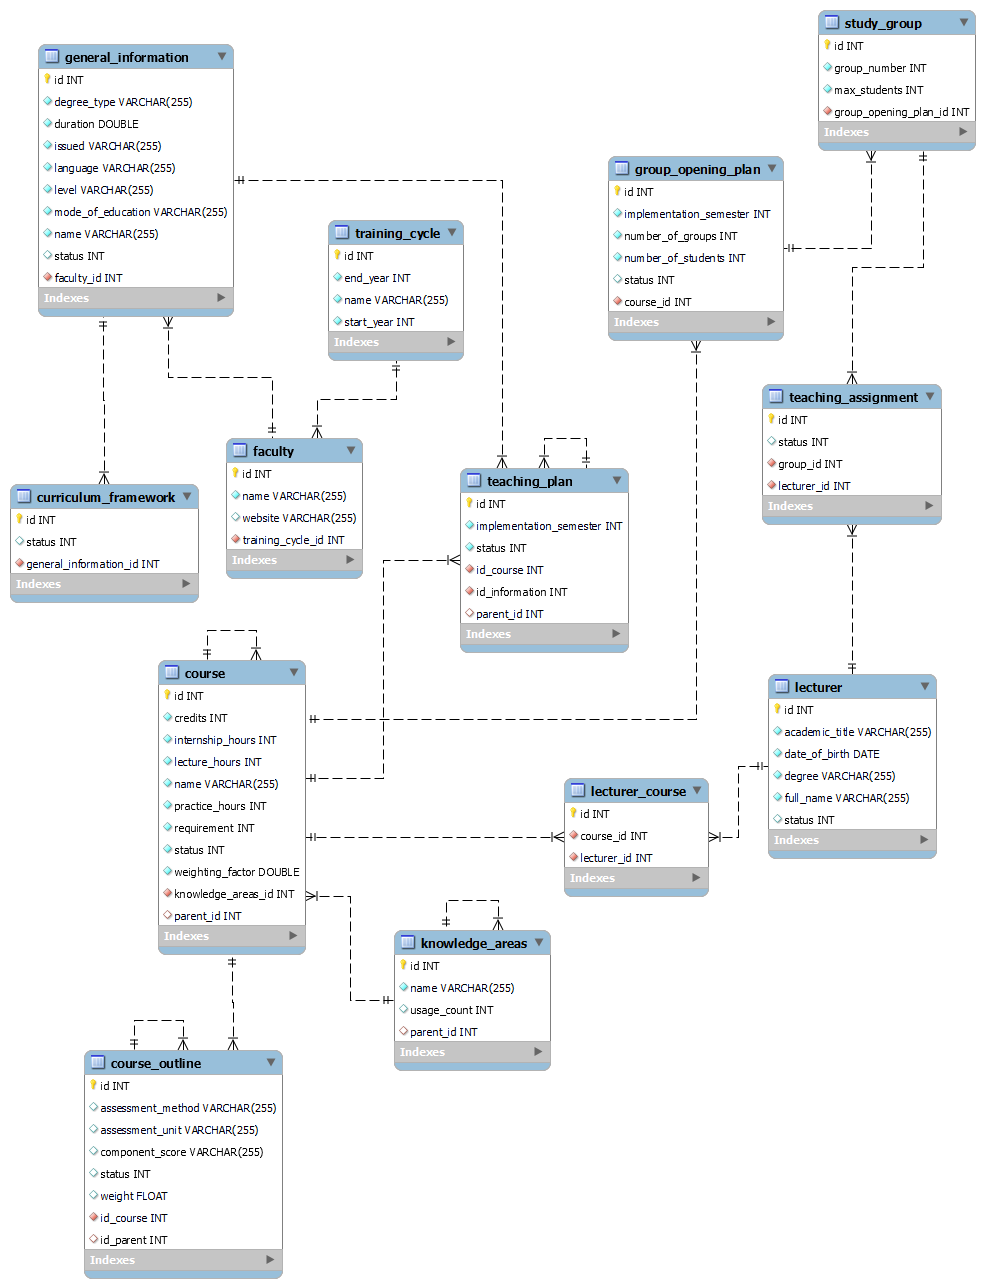
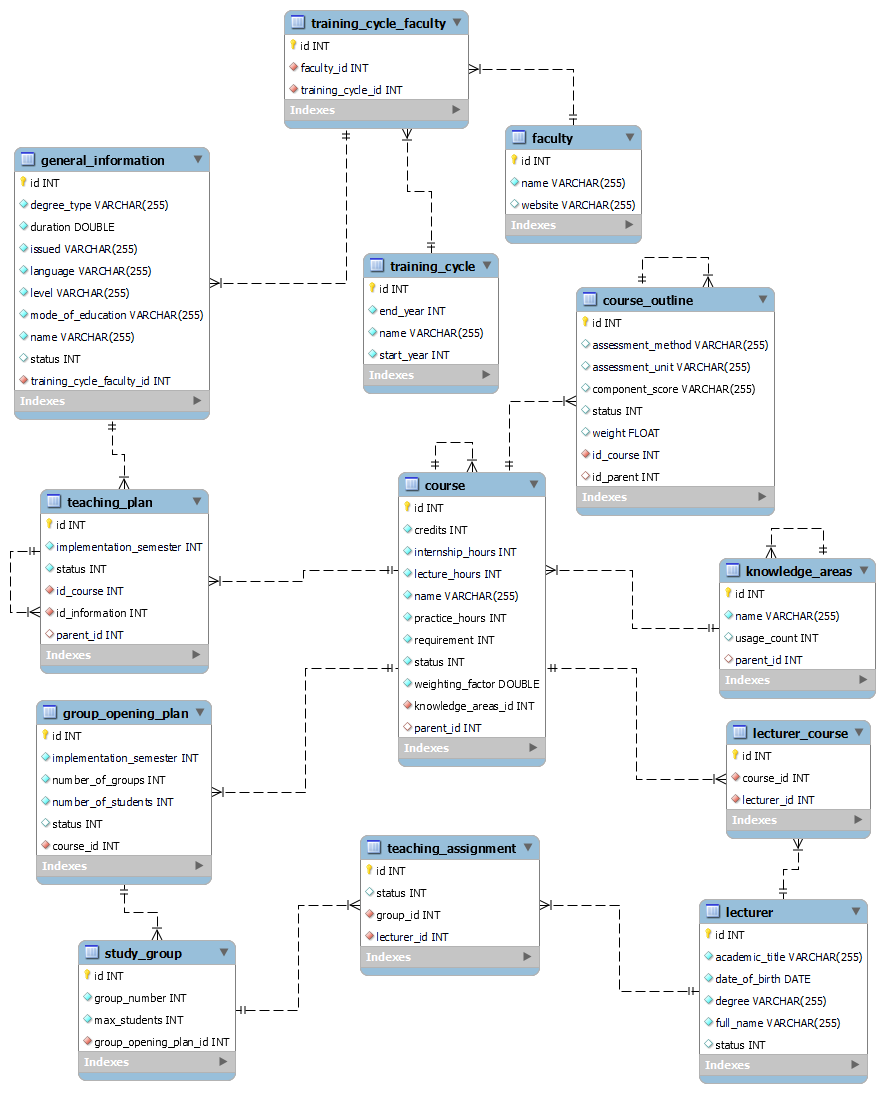
update relation: training, faculty, information and delete curriculum

diff --git a/CTDT/src/main/java/com/project/CTDT/entity/Faculty.java b/CTDT/src/main/java/com/project/CTDT/entity/Faculty.java
@@ -1,19 +1,18 @@
 package com.project.CTDT.entity;
 
-import com.fasterxml.jackson.annotation.JsonBackReference;
+import java.util.Set;
+
+import com.fasterxml.jackson.annotation.JsonIgnoreProperties;
 import com.fasterxml.jackson.annotation.JsonManagedReference;
 
 import jakarta.persistence.CascadeType;
 import jakarta.persistence.Column;
 import jakarta.persistence.Entity;
 import jakarta.persistence.FetchType;
-import jakarta.persistence.ForeignKey;
 import jakarta.persistence.GeneratedValue;
 import jakarta.persistence.GenerationType;
 import jakarta.persistence.Id;
-import jakarta.persistence.JoinColumn;
-import jakarta.persistence.ManyToOne;
-import jakarta.persistence.OneToOne;
+import jakarta.persistence.OneToMany;
 import jakarta.persistence.Table;
 import lombok.Getter;
 import lombok.Setter;
@@ -22,6 +21,7 @@ import lombok.Setter;
 @Setter
 @Entity
 @Table(name = "faculty")
+@JsonIgnoreProperties({ "hibernateLazyInitializer", "handler" })
 public class Faculty {
 	@Id
 	@GeneratedValue(strategy = GenerationType.IDENTITY)
@@ -33,14 +33,15 @@ public class Faculty {
 	@Column(name = "website", nullable = true, length = 255)
 	private String website;
 
-	@ManyToOne(fetch = FetchType.EAGER)
-	@JoinColumn(name = "TrainingCycle_Id", nullable = false, foreignKey = @ForeignKey(name = "fk_Faculty_TrainingCycle"))
-	@JsonBackReference(value = "trainingCycle-faculty") // Đúng khi Faculty là "nhiều" và TrainingCycle là "một"
-	private TrainingCycle trainingCycle;
+	// Mối quan hệ 1-N với TrainingCycleFaculty
+	@OneToMany(mappedBy = "faculty", cascade = CascadeType.ALL, fetch = FetchType.LAZY, orphanRemoval = true)
+	@JsonManagedReference(value = "trainingCycleFaculty-faculty")
+	private Set<TrainingCycleFaculty> trainingCycleFacultyList;
+	// cascade = CascadeType.ALL : Khi bạn xóa một phần tử LecturerCourse khỏi danh
+	// sách lecturerCourses, thì Hibernate sẽ tự động xóa record đó khỏi database.
 
-	// Mối quan hệ 1-1 với GeneralInformation
-	@OneToOne(fetch = FetchType.LAZY, mappedBy = "faculty", cascade = CascadeType.ALL)
-	@JsonManagedReference(value = "faculty-generalInformation") // Đúng khi Faculty là "một" và GeneralInformation là
-																// "nhiều"
-	private GeneralInformation generalInformation;
+//	@ManyToOne(fetch = FetchType.EAGER)
+//	@JoinColumn(name = "TrainingCycle_Id", nullable = false, foreignKey = @ForeignKey(name = "fk_Faculty_TrainingCycle"))
+//	@JsonBackReference(value = "trainingCycle-faculty") // Đúng khi Faculty là "nhiều" và TrainingCycle là "một"
+//	private TrainingCycle trainingCycle;
 }

diff --git a/CTDT/src/main/java/com/project/CTDT/entity/TrainingCycle.java b/CTDT/src/main/java/com/project/CTDT/entity/TrainingCycle.java
@@ -1,8 +1,14 @@
 package com.project.CTDT.entity;
 
+import java.util.ArrayList;
+import java.util.HashSet;
+import java.util.List;
 import java.util.Set;
 
+import com.fasterxml.jackson.annotation.JsonIgnore;
+import com.fasterxml.jackson.annotation.JsonIgnoreProperties;
 import com.fasterxml.jackson.annotation.JsonManagedReference;
+import com.fasterxml.jackson.annotation.JsonProperty;
 
 import jakarta.persistence.CascadeType;
 import jakarta.persistence.Column;
@@ -14,14 +20,15 @@ import jakarta.persistence.Id;
 import jakarta.persistence.OneToMany;
 import jakarta.persistence.Table;
 import lombok.Getter;
-import lombok.Setter;
 import lombok.NoArgsConstructor;
+import lombok.Setter;
 
 @Getter
 @Setter
 @NoArgsConstructor
 @Entity
 @Table(name = "TrainingCycle")
+@JsonIgnoreProperties({ "hibernateLazyInitializer", "handler" })
 public class TrainingCycle {
 	@Id
 	@GeneratedValue(strategy = GenerationType.IDENTITY)
@@ -37,7 +44,26 @@ public class TrainingCycle {
 	@Column(name = "endYear", nullable = false)
 	private Integer endYear;
 
-	@OneToMany(fetch = FetchType.EAGER, mappedBy = "trainingCycle", cascade = CascadeType.ALL)
-	@JsonManagedReference(value = "trainingCycle-faculty") // Đúng khi TrainingCycle là "một" và Faculty là "nhiều"
-	private Set<Faculty> faculties;
+	// Mối quan hệ 1-N với TrainingCycleFaculty
+	@OneToMany(mappedBy = "trainingCycle", cascade = CascadeType.ALL, fetch = FetchType.EAGER, orphanRemoval = true)
+	@JsonManagedReference(value = "trainingCycle-trainingCycleFaculty")
+	@JsonIgnore
+	private Set<TrainingCycleFaculty> trainingCycleFacultyList = new HashSet<>();;
+
+	// Getter để trả về faculty
+	@JsonProperty("faculties")
+	public List<Faculty> getFaculties() {
+		if (trainingCycleFacultyList == null)
+			return new ArrayList<>();
+		List<Faculty> list = new ArrayList<>();
+		for (TrainingCycleFaculty t : trainingCycleFacultyList) {
+			list.add(t.getFaculty());
+		}
+		return list;
+	}
+
+//		@OneToMany(fetch = FetchType.EAGER, mappedBy = "trainingCycle", cascade = CascadeType.ALL)
+//		@JsonManagedReference(value = "trainingCycle-faculty") // Đúng khi TrainingCycle là "một" và Faculty là "nhiều"
+//		private Set<Faculty> faculties;
+
 }

diff --git a/CTDT/src/main/java/com/project/CTDT/entity/TrainingCycleFaculty.java b/CTDT/src/main/java/com/project/CTDT/entity/TrainingCycleFaculty.java
@@ -1,0 +1,57 @@
+package com.project.CTDT.entity;
+
+import com.fasterxml.jackson.annotation.JsonBackReference;
+import com.fasterxml.jackson.annotation.JsonManagedReference;
+import com.fasterxml.jackson.annotation.JsonProperty;
+
+import jakarta.persistence.CascadeType;
+import jakarta.persistence.Entity;
+import jakarta.persistence.FetchType;
+import jakarta.persistence.ForeignKey;
+import jakarta.persistence.GeneratedValue;
+import jakarta.persistence.GenerationType;
+import jakarta.persistence.Id;
+import jakarta.persistence.JoinColumn;
+import jakarta.persistence.ManyToOne;
+import jakarta.persistence.OneToOne;
+import jakarta.persistence.Table;
+import lombok.Getter;
+import lombok.Setter;
+
+@Getter
+@Setter
+@Entity
+@Table(name = "training_cycle_faculty")
+public class TrainingCycleFaculty {
+
+	@Id
+	@GeneratedValue(strategy = GenerationType.IDENTITY)
+	private Integer id;
+
+	@ManyToOne(fetch = FetchType.LAZY)
+	@JoinColumn(name = "training_cycle_id", nullable = false, foreignKey = @ForeignKey(name = "fk_trainingCycle_faculty"))
+	@JsonBackReference(value = "trainingCycle-trainingCycleFaculty")
+	private TrainingCycle trainingCycle;
+
+	// Getter để trả về trainingCycle
+	@JsonProperty("trainingCycle")
+	public TrainingCycle getTrainingCycle() {
+		return trainingCycle;
+	}
+
+	@ManyToOne(fetch = FetchType.LAZY)
+	@JoinColumn(name = "faculty_id", nullable = false, foreignKey = @ForeignKey(name = "fk_faculty_trainingCycle"))
+	@JsonBackReference(value = "trainingCycleFaculty-faculty")
+	private Faculty faculty;
+
+	// Getter để trả về faculty
+	@JsonProperty("faculty")
+	public Faculty getFaculty() {
+		return faculty;
+	}
+
+	@OneToOne(mappedBy = "trainingCycleFaculty", cascade = CascadeType.ALL, fetch = FetchType.LAZY, orphanRemoval = true)
+	@JsonManagedReference(value = "trainingCycleFaculty-generalInformation")
+	private GeneralInformation generalInformation;
+
+}

diff --git a/CTDT/src/main/java/com/project/CTDT/entity/GeneralInformation.java b/CTDT/src/main/java/com/project/CTDT/entity/GeneralInformation.java
@@ -4,7 +4,7 @@ import java.util.HashSet;
 import java.util.Set;
 
 import com.fasterxml.jackson.annotation.JsonBackReference;
-import com.fasterxml.jackson.annotation.JsonManagedReference;
+import com.fasterxml.jackson.annotation.JsonIgnore;
 
 import jakarta.persistence.CascadeType;
 import jakarta.persistence.Column;
@@ -20,7 +20,6 @@ import jakarta.persistence.OneToOne;
 import jakarta.persistence.Table;
 import lombok.Getter;
 import lombok.Setter;
-import com.fasterxml.jackson.annotation.JsonIgnore;
 
 @Getter
 @Setter
@@ -55,16 +54,11 @@ public class GeneralInformation {
 	@Column(name = "status")
 	private Integer status = 1;
 
-	// Mối quan hệ 1-1 với Faculty
+	// Quan hệ 1-1 với bảng trung gian TrainingCycleFaculty
 	@OneToOne(fetch = FetchType.LAZY)
-	@JoinColumn(name = "faculty_Id", nullable = false, foreignKey = @ForeignKey(name = "fk_Faculty_GeneralInformation"))
-	@JsonBackReference(value = "faculty-generalInformation")
-	private Faculty faculty;
-
-	// Mối quan hệ 1-1 với CurriculumFramework
-	@OneToOne(fetch = FetchType.LAZY, mappedBy = "generalInformation", cascade = CascadeType.ALL)
-	@JsonManagedReference(value = "generalInformation-curriculumFramework")
-	private CurriculumFramework curriculumFramework;
+	@JoinColumn(name = "training_cycle_faculty_id", nullable = false, unique = true, foreignKey = @ForeignKey(name = "fk_general_info_training_cycle_faculty"))
+	@JsonBackReference(value = "trainingCycleFaculty-generalInformation")
+	private TrainingCycleFaculty trainingCycleFaculty;
 
 	// Mối quan hệ 1-N với TeachingPlan
 	@OneToMany(mappedBy = "generalInformation", cascade = CascadeType.ALL, orphanRemoval = true)

diff --git a/CTDT/src/main/java/com/project/CTDT/entity/LecturerCourse.java b/CTDT/src/main/java/com/project/CTDT/entity/LecturerCourse.java
@@ -2,7 +2,6 @@ package com.project.CTDT.entity;
 
 import com.fasterxml.jackson.annotation.JsonBackReference;
 
-
 import jakarta.persistence.Entity;
 import jakarta.persistence.FetchType;
 import jakarta.persistence.ForeignKey;
@@ -31,7 +30,6 @@ public class LecturerCourse {
 	@ManyToOne(fetch = FetchType.LAZY)
 	@JoinColumn(name = "lecturer_id", nullable = false, foreignKey = @ForeignKey(name = "fk_lecturer_course"))
 	@JsonBackReference(value = "lecturer-lecturerCourses")
-
 	private Lecturer lecturer;
 
 	@ManyToOne(fetch = FetchType.LAZY)
